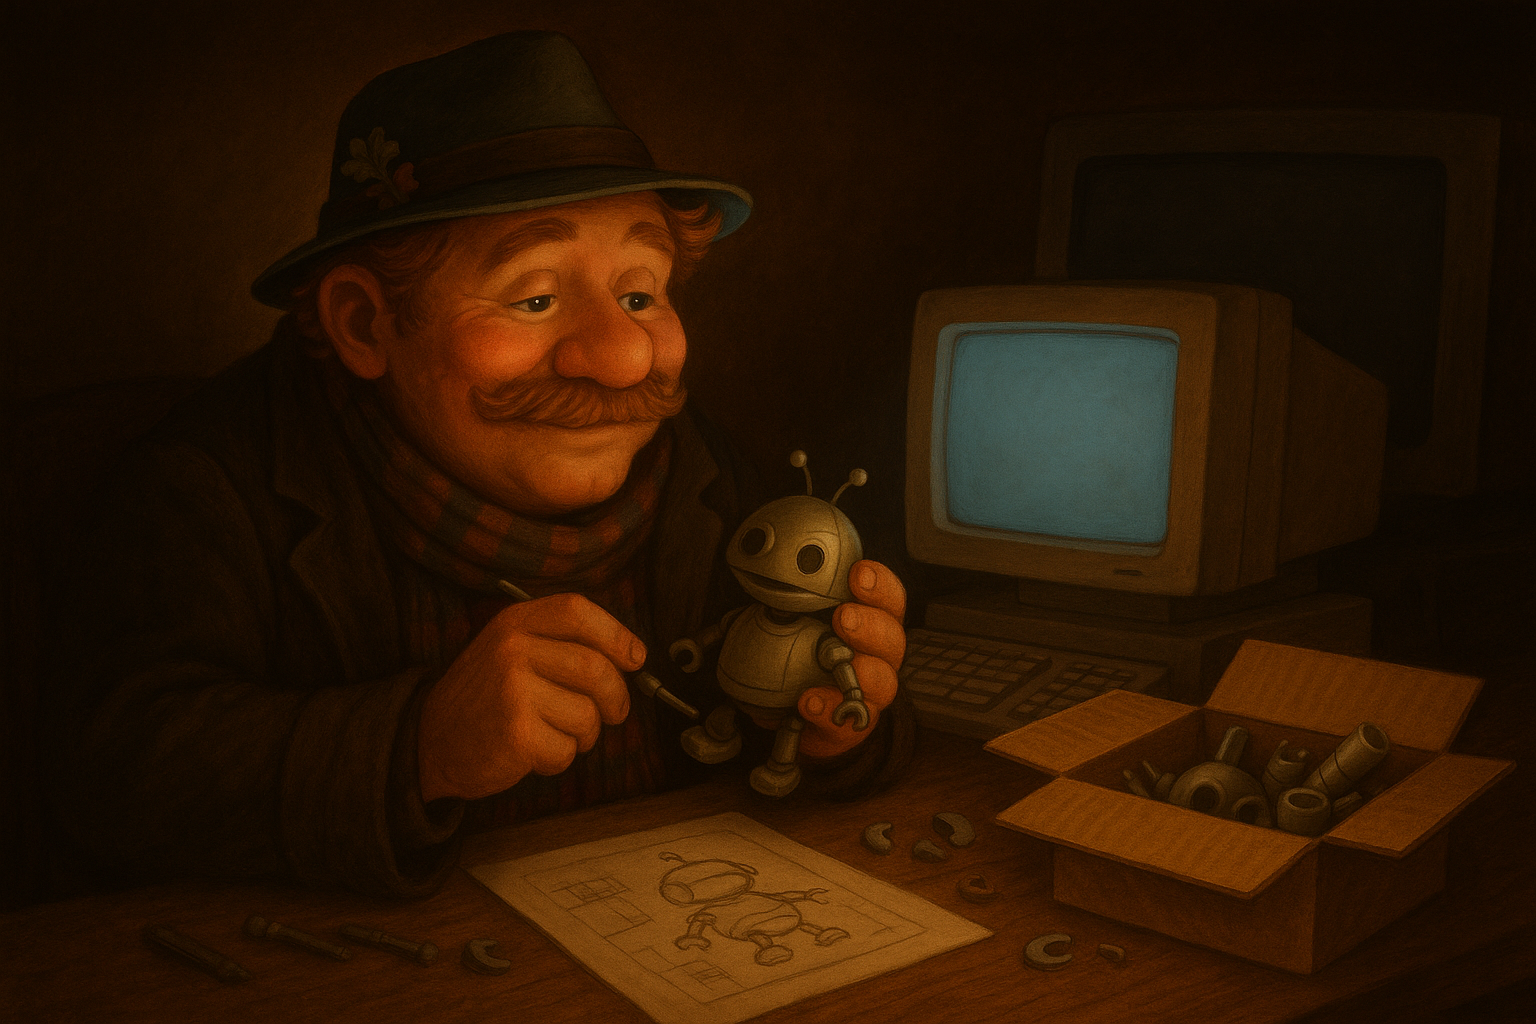
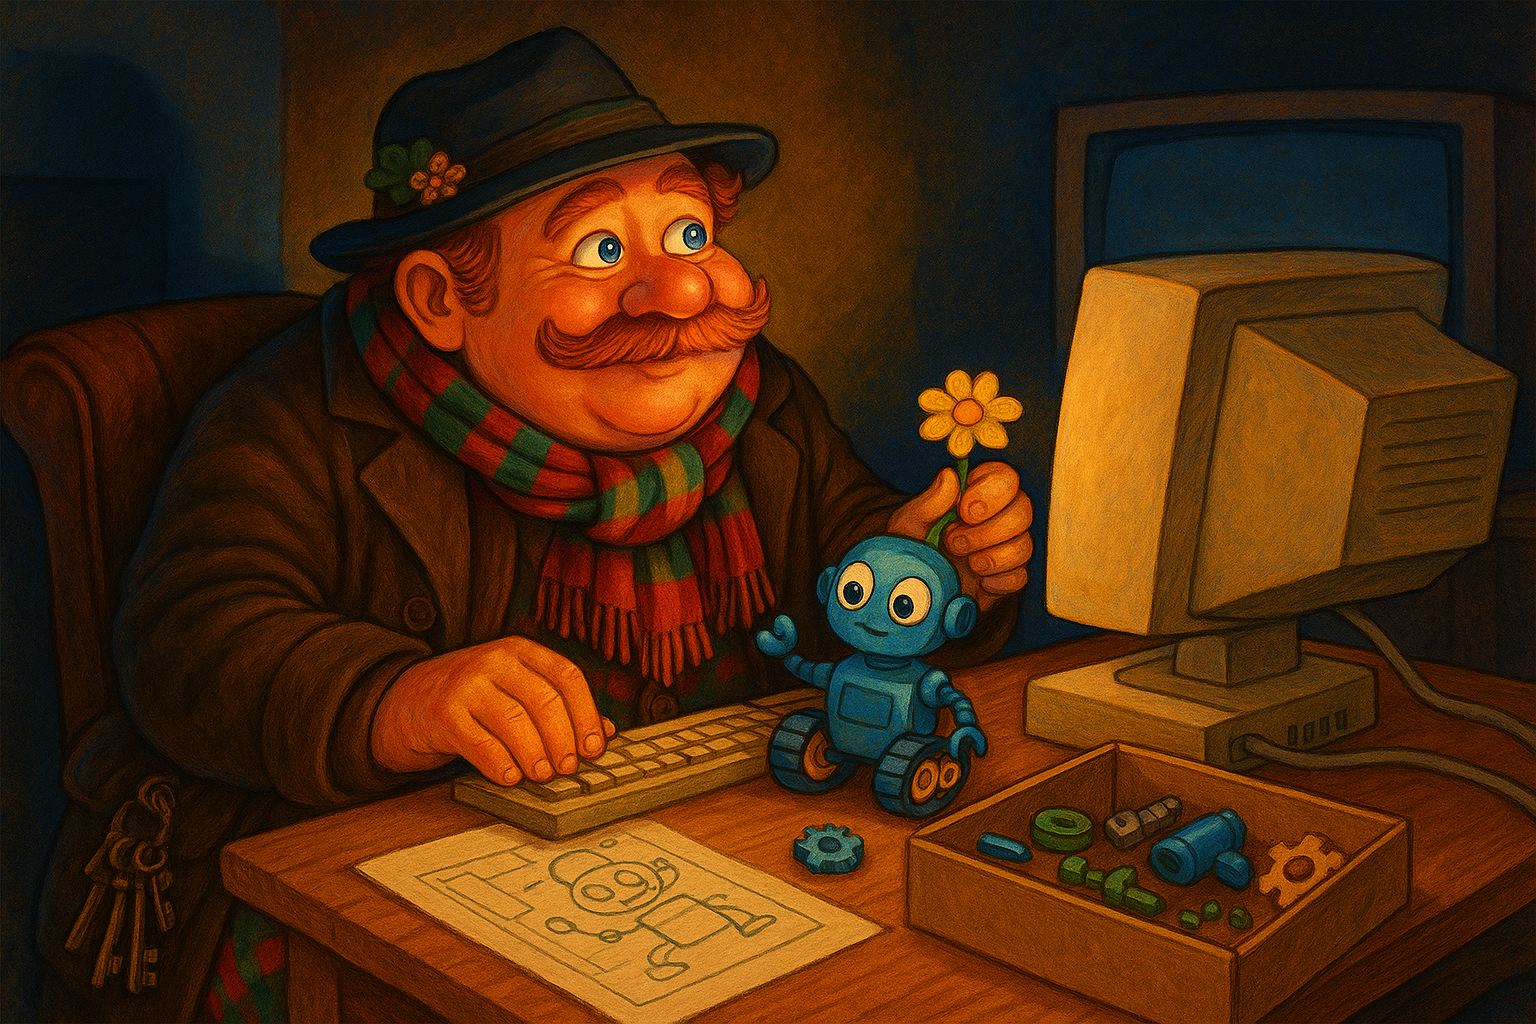
Картинки: сочный стиль во всех кадрах (эталон greta-szene-2) — 4 текста перегенерированы + 12 картинок для частей (otto-part-1..5, greta-part-1..7). Хабы: превью-миниатюра в каждой карточке части. Персонажи по референсам, живые лица, без текста

diff --git a/thema-greta.html b/thema-greta.html
@@ -1,18 +1,19 @@
 <!doctype html>
 <html lang="ru"><head><meta charset="utf-8"><meta name="viewport" content="width=device-width, initial-scale=1">
-<title>Неотделяемые глаголы — семья Греты</title>
+<title>🔗 Неотделяемые глаголы — семья Греты</title>
 <link rel="stylesheet" href="css/style.css?v=3">
 <style>
- .wrap{max-width:860px;margin:0 auto;padding:16px}
+ .wrap{max-width:880px;margin:0 auto;padding:16px}
  .sec{font-weight:800;color:#c2185b;margin:26px 0 10px;font-size:17px}
  .grid{display:grid;grid-template-columns:1fr;gap:12px}
- .pcard{display:flex;gap:14px;align-items:center;text-decoration:none;background:#fff;border:1px solid var(--line);border-radius:16px;padding:14px 16px;color:#1f2937}
+ .pcard{display:flex;gap:14px;align-items:center;text-decoration:none;background:#fff;border:1px solid var(--line);border-radius:16px;padding:10px 12px;color:#1f2937;overflow:hidden}
  .pcard:hover{border-color:#c2185b}
- .pnum{flex:0 0 auto;width:44px;height:44px;border-radius:12px;background:#fce7f3;color:#c2185b;font-weight:800;font-size:20px;display:flex;align-items:center;justify-content:center}
+ .pthumb{flex:0 0 auto;width:120px;height:82px;object-fit:cover;border-radius:12px;background:#fce7f3}
+ .pcbody{min-width:0}
  .pt{font-weight:800} .ps{color:#6b7280;font-size:14px;margin:2px 0 4px}
  .pgo{color:#c2185b;font-weight:700;font-size:14px}
- .dcard{display:block;text-decoration:none;background:#fdf2f8;border:1px solid #fbcfe8;border-radius:16px;padding:16px;color:#9d174d}
- .dcard:hover{border-color:#ec4899}
+ .dcard{display:block;text-decoration:none;background:#fce7f3;border:1px solid var(--line);border-radius:16px;padding:16px;color:#c2185b}
+ .dcard:hover{border-color:#c2185b}
  .tgrid{display:grid;grid-template-columns:repeat(auto-fill,minmax(240px,1fr));gap:14px}
  .tcard{text-decoration:none;background:#fff;border:1px solid var(--line);border-radius:16px;overflow:hidden;color:#1f2937}
  .tcard:hover{border-color:#c2185b}
@@ -20,34 +21,31 @@
  .tcb{padding:12px 14px} .tct{font-weight:800} .tcs{color:#6b7280;font-size:13px;margin:3px 0 6px}
  .tcgo{color:#c2185b;font-weight:700;font-size:14px}
  .lead{color:#4b5563;line-height:1.7}
+ @media(max-width:520px){.pthumb{width:88px;height:64px}}
 </style></head>
 <body>
 <header class="top"><div class="wrap" style="padding:10px 16px"><a class="home" href="index.html">🇩🇪 Deutsch A1</a> <span class="crumb">/ Неотделяемые глаголы</span></div></header>
 <main class="wrap">
   <h1 style="font-size:26px;margin:6px 0 2px">🔗 Неотделяемые глаголы — семья Греты</h1>
-  <p class="lead">Приставка приросла намертво (be-/er-/ver-/ge-), а в прошедшем <b>нет ge-</b>: <b>bekommen → hat bekommen</b>. Тема из 7 частей, словарь и 3 истории для чтения.</p>
-
+  <p class="lead">Приставка приросла намертво (be-/er-/ver-/ge-), в прошедшем <b>нет ge-</b>: <b>bekommen → hat bekommen</b>. 7 частей, словарь и 3 истории.</p>
   <div class="sec">Части темы — тренажёр</div>
   <div class="grid">
-  <a class="pcard" href="thema-untrennbar.html?part=1"><div class="pnum">1</div><div><div class="pt">Часть 1 — Приглашение</div><div class="ps">11 глаголов · beginnen · bekommen · verstehen · vermuten…</div><span class="pgo">▶ Начать изучение →</span></div></a>
-<a class="pcard" href="thema-untrennbar.html?part=2"><div class="pnum">2</div><div><div class="pt">Часть 2 — Почему согласилась</div><div class="ps">10 глаголов · vermeiden · ermöglichen · gehören · erfinden…</div><span class="pgo">▶ Начать изучение →</span></div></a>
-<a class="pcard" href="thema-untrennbar.html?part=3"><div class="pnum">3</div><div><div class="pt">Часть 3 — Giulia</div><div class="ps">10 глаголов · beantworten · verabreden · vereinbaren · übernehmen…</div><span class="pgo">▶ Начать изучение →</span></div></a>
-<a class="pcard" href="thema-untrennbar.html?part=4"><div class="pnum">4</div><div><div class="pt">Часть 4 — Лина</div><div class="ps">10 глаголов · besuchen · betreuen · erlauben · erteilen…</div><span class="pgo">▶ Начать изучение →</span></div></a>
-<a class="pcard" href="thema-untrennbar.html?part=5"><div class="pnum">5</div><div><div class="pt">Часть 5 — За продуктами</div><div class="ps">11 глаголов · erklären · wiederholen · bestellen · empfehlen…</div><span class="pgo">▶ Начать изучение →</span></div></a>
-<a class="pcard" href="thema-untrennbar.html?part=6"><div class="pnum">6</div><div><div class="pt">Часть 6 — Апельсин и суп</div><div class="ps">11 глаголов · gewinnen · bedanken · behalten · verbinden…</div><span class="pgo">▶ Начать изучение →</span></div></a>
-<a class="pcard" href="thema-untrennbar.html?part=7"><div class="pnum">7</div><div><div class="pt">Часть 7 — Вечер</div><div class="ps">10 глаголов · umkreisen · bezeichnen · unterstreichen · erledigen…</div><span class="pgo">▶ Начать изучение →</span></div></a>
+  <a class="pcard" href="thema-untrennbar.html?part=1"><img class="pthumb" src="img/greta-part-1.png" alt="" onerror="this.style.display='none'"><div class="pcbody"><div class="pt">Часть 1 — Приглашение</div><div class="ps">11 глаголов · beginnen · bekommen · verstehen · vermuten…</div><span class="pgo">▶ Начать изучение →</span></div></a>
+<a class="pcard" href="thema-untrennbar.html?part=2"><img class="pthumb" src="img/greta-part-2.png" alt="" onerror="this.style.display='none'"><div class="pcbody"><div class="pt">Часть 2 — Почему согласилась</div><div class="ps">10 глаголов · vermeiden · ermöglichen · gehören · erfinden…</div><span class="pgo">▶ Начать изучение →</span></div></a>
+<a class="pcard" href="thema-untrennbar.html?part=3"><img class="pthumb" src="img/greta-part-3.png" alt="" onerror="this.style.display='none'"><div class="pcbody"><div class="pt">Часть 3 — Giulia</div><div class="ps">10 глаголов · beantworten · verabreden · vereinbaren · übernehmen…</div><span class="pgo">▶ Начать изучение →</span></div></a>
+<a class="pcard" href="thema-untrennbar.html?part=4"><img class="pthumb" src="img/greta-part-4.png" alt="" onerror="this.style.display='none'"><div class="pcbody"><div class="pt">Часть 4 — Лина</div><div class="ps">10 глаголов · besuchen · betreuen · erlauben · erteilen…</div><span class="pgo">▶ Начать изучение →</span></div></a>
+<a class="pcard" href="thema-untrennbar.html?part=5"><img class="pthumb" src="img/greta-part-5.png" alt="" onerror="this.style.display='none'"><div class="pcbody"><div class="pt">Часть 5 — За продуктами</div><div class="ps">11 глаголов · erklären · wiederholen · bestellen · empfehlen…</div><span class="pgo">▶ Начать изучение →</span></div></a>
+<a class="pcard" href="thema-untrennbar.html?part=6"><img class="pthumb" src="img/greta-part-6.png" alt="" onerror="this.style.display='none'"><div class="pcbody"><div class="pt">Часть 6 — Апельсин и суп</div><div class="ps">11 глаголов · gewinnen · bedanken · behalten · verbinden…</div><span class="pgo">▶ Начать изучение →</span></div></a>
+<a class="pcard" href="thema-untrennbar.html?part=7"><img class="pthumb" src="img/greta-part-7.png" alt="" onerror="this.style.display='none'"><div class="pcbody"><div class="pt">Часть 7 — Вечер</div><div class="ps">10 глаголов · umkreisen · bezeichnen · unterstreichen · erledigen…</div><span class="pgo">▶ Начать изучение →</span></div></a>
 </div>
-
   <div class="sec">Словарь темы</div>
-  <a class="dcard" href="thema-greta-woerter.html"><b>📚 Словарь — все 73 неотделяемых глагола</b><div style="color:#be185d;font-size:14px;margin-top:3px">Инфинитив · перевод · Perfekt · 🔊 голос Греты</div></a>
-
+  <a class="dcard" href="thema-greta-woerter.html"><b>📚 Словарь — все 73 глагола</b><div style="font-size:14px;margin-top:3px;opacity:.85">Инфинитив · перевод · Perfekt · 🔊</div></a>
   <div class="sec">Тексты по теме — читать</div>
   <div class="tgrid">
-  <a class="tcard" href="thema-greta-text.html?n=1"><img src="img/greta-text-1.png" alt="" onerror="this.style.display='none'"><div class="tcb"><div class="tct">Текст 1 — Весточка из Неаполя</div><div class="tcs">Письмо от мамы — память и любовь</div><span class="tcgo">Читать →</span></div></a>
-<a class="tcard" href="thema-greta-text.html?n=2"><img src="img/greta-text-2.png" alt="" onerror="this.style.display='none'"><div class="tcb"><div class="tct">Текст 2 — Кулинарная школа с Линой</div><div class="tcs">Грета учит Лину готовить</div><span class="tcgo">Читать →</span></div></a>
-<a class="tcard" href="thema-greta-text.html?n=3"><img src="img/greta-text-3.png" alt="" onerror="this.style.display='none'"><div class="tcb"><div class="tct">Текст 3 — Кулинарное шоу</div><div class="tcs">Азарт, суп и золотая медаль</div><span class="tcgo">Читать →</span></div></a>
+  <a class="tcard" href="greta-text.html?n=1"><img src="img/greta-text-1.png" alt="" onerror="this.style.display='none'"><div class="tcb"><div class="tct">Текст 1 — Весточка из Неаполя</div><div class="tcs">Письмо от мамы — память и любовь</div><span class="tcgo">Читать →</span></div></a>
+<a class="tcard" href="greta-text.html?n=2"><img src="img/greta-text-2.png" alt="" onerror="this.style.display='none'"><div class="tcb"><div class="tct">Текст 2 — Кулинарная школа с Линой</div><div class="tcs">Грета учит Лину готовить</div><span class="tcgo">Читать →</span></div></a>
+<a class="tcard" href="greta-text.html?n=3"><img src="img/greta-text-3.png" alt="" onerror="this.style.display='none'"><div class="tcb"><div class="tct">Текст 3 — Кулинарное шоу</div><div class="tcs">Азарт, суп и золотая медаль</div><span class="tcgo">Читать →</span></div></a>
 </div>
-
   <div style="margin:26px 0"><a href="index.html" style="text-decoration:none;background:#f3e8ff;color:var(--accent);border-radius:12px;padding:11px 16px;font-weight:700">🏠 Главная</a></div>
 </main>
 </body></html>

diff --git a/thema-otto.html b/thema-otto.html
@@ -1,54 +1,49 @@
 <!doctype html>
 <html lang="ru"><head><meta charset="utf-8"><meta name="viewport" content="width=device-width, initial-scale=1">
-<title>Отделяемые глаголы — семья Отто</title>
+<title>🔌 Отделяемые глаголы — семья Отто</title>
 <link rel="stylesheet" href="css/style.css?v=3">
 <style>
- .wrap{max-width:860px;margin:0 auto;padding:16px}
+ .wrap{max-width:880px;margin:0 auto;padding:16px}
  .sec{font-weight:800;color:#3b5bdb;margin:26px 0 10px;font-size:17px}
  .grid{display:grid;grid-template-columns:1fr;gap:12px}
- .pcard{display:flex;gap:14px;align-items:center;text-decoration:none;background:#fff;border:1px solid var(--line);border-radius:16px;padding:14px 16px;color:#1f2937}
+ .pcard{display:flex;gap:14px;align-items:center;text-decoration:none;background:#fff;border:1px solid var(--line);border-radius:16px;padding:10px 12px;color:#1f2937;overflow:hidden}
  .pcard:hover{border-color:#3b5bdb}
- .pnum{flex:0 0 auto;width:44px;height:44px;border-radius:12px;background:#eef2ff;color:#3b5bdb;font-weight:800;font-size:20px;display:flex;align-items:center;justify-content:center}
- .pt{font-weight:800}
- .ps{color:#6b7280;font-size:14px;margin:2px 0 4px}
+ .pthumb{flex:0 0 auto;width:120px;height:82px;object-fit:cover;border-radius:12px;background:#eef2ff}
+ .pcbody{min-width:0}
+ .pt{font-weight:800} .ps{color:#6b7280;font-size:14px;margin:2px 0 4px}
  .pgo{color:#3b5bdb;font-weight:700;font-size:14px}
- .dcard{display:block;text-decoration:none;background:#f5f3ff;border:1px solid #ddd6fe;border-radius:16px;padding:16px;color:#4c1d95}
- .dcard:hover{border-color:#a855f7}
+ .dcard{display:block;text-decoration:none;background:#eef2ff;border:1px solid var(--line);border-radius:16px;padding:16px;color:#3b5bdb}
+ .dcard:hover{border-color:#3b5bdb}
  .tgrid{display:grid;grid-template-columns:repeat(auto-fill,minmax(240px,1fr));gap:14px}
  .tcard{text-decoration:none;background:#fff;border:1px solid var(--line);border-radius:16px;overflow:hidden;color:#1f2937}
  .tcard:hover{border-color:#3b5bdb}
  .tcard img{width:100%;height:150px;object-fit:cover;display:block;background:#eef2ff}
- .tcb{padding:12px 14px}
- .tct{font-weight:800}
- .tcs{color:#6b7280;font-size:13px;margin:3px 0 6px}
+ .tcb{padding:12px 14px} .tct{font-weight:800} .tcs{color:#6b7280;font-size:13px;margin:3px 0 6px}
  .tcgo{color:#3b5bdb;font-weight:700;font-size:14px}
  .lead{color:#4b5563;line-height:1.7}
+ @media(max-width:520px){.pthumb{width:88px;height:64px}}
 </style></head>
 <body>
 <header class="top"><div class="wrap" style="padding:10px 16px"><a class="home" href="index.html">🇩🇪 Deutsch A1</a> <span class="crumb">/ Отделяемые глаголы</span></div></header>
 <main class="wrap">
   <h1 style="font-size:26px;margin:6px 0 2px">🔌 Отделяемые глаголы — семья Отто</h1>
-  <p class="lead">Приставка уходит в конец: <b>ich stehe früh auf</b>, в прошедшем — <b>ist auf<span style="color:#c2185b">ge</span>standen</b>. Тема из 5 частей, словарь и 3 истории для чтения.</p>
-
+  <p class="lead">Приставка уходит в конец: <b>ich stehe früh auf</b>, в прошедшем — <b>ist auf<span style="color:#c2185b">ge</span>standen</b>. 5 частей, словарь и 3 истории.</p>
   <div class="sec">Части темы — тренажёр</div>
   <div class="grid">
-  <a class="pcard" href="thema-trennbar.html?part=1"><div class="pnum">1</div><div><div class="pt">Часть 1 — Утро и приглашение</div><div class="ps">11 глаголов · freihaben · aufstehen · anziehen · anmachen…</div><span class="pgo">▶ Начать изучение →</span></div></a>
-<a class="pcard" href="thema-trennbar.html?part=2"><div class="pnum">2</div><div><div class="pt">Часть 2 — Телефон и подготовка</div><div class="ps">11 глаголов · mitnehmen · auflegen · zurückrufen · mitmachen…</div><span class="pgo">▶ Начать изучение →</span></div></a>
-<a class="pcard" href="thema-trennbar.html?part=3"><div class="pnum">3</div><div><div class="pt">Часть 3 — Дорога и вокзал</div><div class="ps">11 глаголов · angeben · hinweisen · anzeigen · abholen…</div><span class="pgo">▶ Начать изучение →</span></div></a>
-<a class="pcard" href="thema-trennbar.html?part=4"><div class="pnum">4</div><div><div class="pt">Часть 4 — Приезд, знакомство, уборка</div><div class="ps">11 глаголов · weiterfahren · aussteigen · vorstellen · kennenlernen…</div><span class="pgo">▶ Начать изучение →</span></div></a>
-<a class="pcard" href="thema-trennbar.html?part=5"><div class="pnum">5</div><div><div class="pt">Часть 5 — Вечер, прогулка, прощание</div><div class="ps">12 глаголов · aussehen · ausdrücken · spazieren gehen · weggehen…</div><span class="pgo">▶ Начать изучение →</span></div></a>
+  <a class="pcard" href="thema-trennbar.html?part=1"><img class="pthumb" src="img/otto-part-1.png" alt="" onerror="this.style.display='none'"><div class="pcbody"><div class="pt">Часть 1</div><div class="ps">11 глаголов · freihaben · aufstehen · anziehen · anmachen…</div><span class="pgo">▶ Начать изучение →</span></div></a>
+<a class="pcard" href="thema-trennbar.html?part=2"><img class="pthumb" src="img/otto-part-2.png" alt="" onerror="this.style.display='none'"><div class="pcbody"><div class="pt">Часть 2</div><div class="ps">11 глаголов · mitnehmen · auflegen · zurückrufen · mitmachen…</div><span class="pgo">▶ Начать изучение →</span></div></a>
+<a class="pcard" href="thema-trennbar.html?part=3"><img class="pthumb" src="img/otto-part-3.png" alt="" onerror="this.style.display='none'"><div class="pcbody"><div class="pt">Часть 3</div><div class="ps">11 глаголов · angeben · hinweisen · anzeigen · abholen…</div><span class="pgo">▶ Начать изучение →</span></div></a>
+<a class="pcard" href="thema-trennbar.html?part=4"><img class="pthumb" src="img/otto-part-4.png" alt="" onerror="this.style.display='none'"><div class="pcbody"><div class="pt">Часть 4</div><div class="ps">11 глаголов · weiterfahren · aussteigen · vorstellen · kennenlernen…</div><span class="pgo">▶ Начать изучение →</span></div></a>
+<a class="pcard" href="thema-trennbar.html?part=5"><img class="pthumb" src="img/otto-part-5.png" alt="" onerror="this.style.display='none'"><div class="pcbody"><div class="pt">Часть 5</div><div class="ps">12 глаголов · aussehen · ausdrücken · spazieren gehen · weggehen…</div><span class="pgo">▶ Начать изучение →</span></div></a>
 </div>
-
   <div class="sec">Словарь темы</div>
-  <a class="dcard" href="thema-otto-woerter.html"><b>📚 Словарь — все 56 отделяемых глаголов</b><div style="color:#6b21a8;font-size:14px;margin-top:3px">Инфинитив · перевод · Perfekt · 🔊 голос Отто</div></a>
-
+  <a class="dcard" href="thema-otto-woerter.html"><b>📚 Словарь — все 56 глагола</b><div style="font-size:14px;margin-top:3px;opacity:.85">Инфинитив · перевод · Perfekt · 🔊</div></a>
   <div class="sec">Тексты по теме — читать</div>
   <div class="tgrid">
-  <a class="tcard" href="thema-otto-text.html?n=1"><img src="img/otto-text-1.png" alt="" onerror="this.style.display='none'"><div class="tcb"><div class="tct">Текст 1 — Внук прилетает</div><div class="tcs">Встреча, дорога, аэропорт — тоска и радость</div><span class="tcgo">Читать →</span></div></a>
-<a class="tcard" href="thema-otto-text.html?n=2"><img src="img/otto-text-2.png" alt="" onerror="this.style.display='none'"><div class="tcb"><div class="tct">Текст 2 — Праздник в саду</div><div class="tcs">Отто впервые зовёт соседей</div><span class="tcgo">Читать →</span></div></a>
-<a class="tcard" href="thema-otto-text.html?n=3"><img src="img/otto-text-3.png" alt="" onerror="this.style.display='none'"><div class="tcb"><div class="tct">Текст 3 — Тайна по вечерам</div><div class="tcs">Секретное дело ворчливого садовника</div><span class="tcgo">Читать →</span></div></a>
+  <a class="tcard" href="otto-text.html?n=1"><img src="img/otto-text-1.png" alt="" onerror="this.style.display='none'"><div class="tcb"><div class="tct">Текст 1 — Внук прилетает</div><div class="tcs">Встреча, дорога, аэропорт</div><span class="tcgo">Читать →</span></div></a>
+<a class="tcard" href="otto-text.html?n=2"><img src="img/otto-text-2.png" alt="" onerror="this.style.display='none'"><div class="tcb"><div class="tct">Текст 2 — Праздник в саду</div><div class="tcs">Отто впервые зовёт соседей</div><span class="tcgo">Читать →</span></div></a>
+<a class="tcard" href="otto-text.html?n=3"><img src="img/otto-text-3.png" alt="" onerror="this.style.display='none'"><div class="tcb"><div class="tct">Текст 3 — Тайна по вечерам</div><div class="tcs">Секретное дело садовника</div><span class="tcgo">Читать →</span></div></a>
 </div>
-
   <div style="margin:26px 0"><a href="index.html" style="text-decoration:none;background:#f3e8ff;color:var(--accent);border-radius:12px;padding:11px 16px;font-weight:700">🏠 Главная</a></div>
 </main>
 </body></html>
